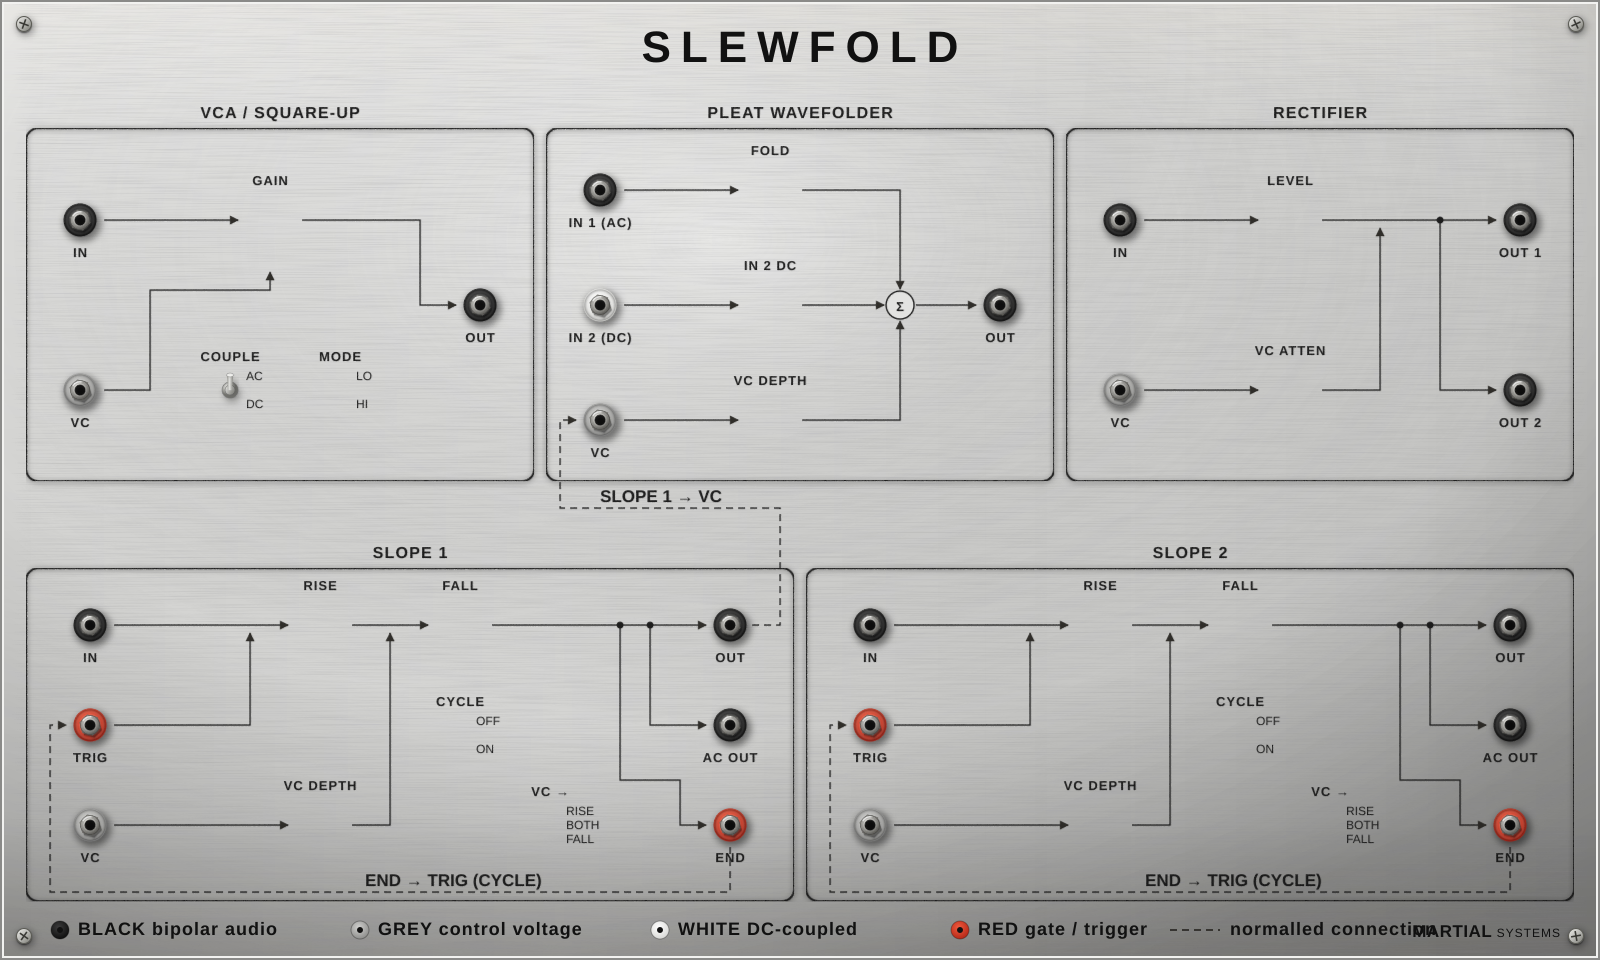
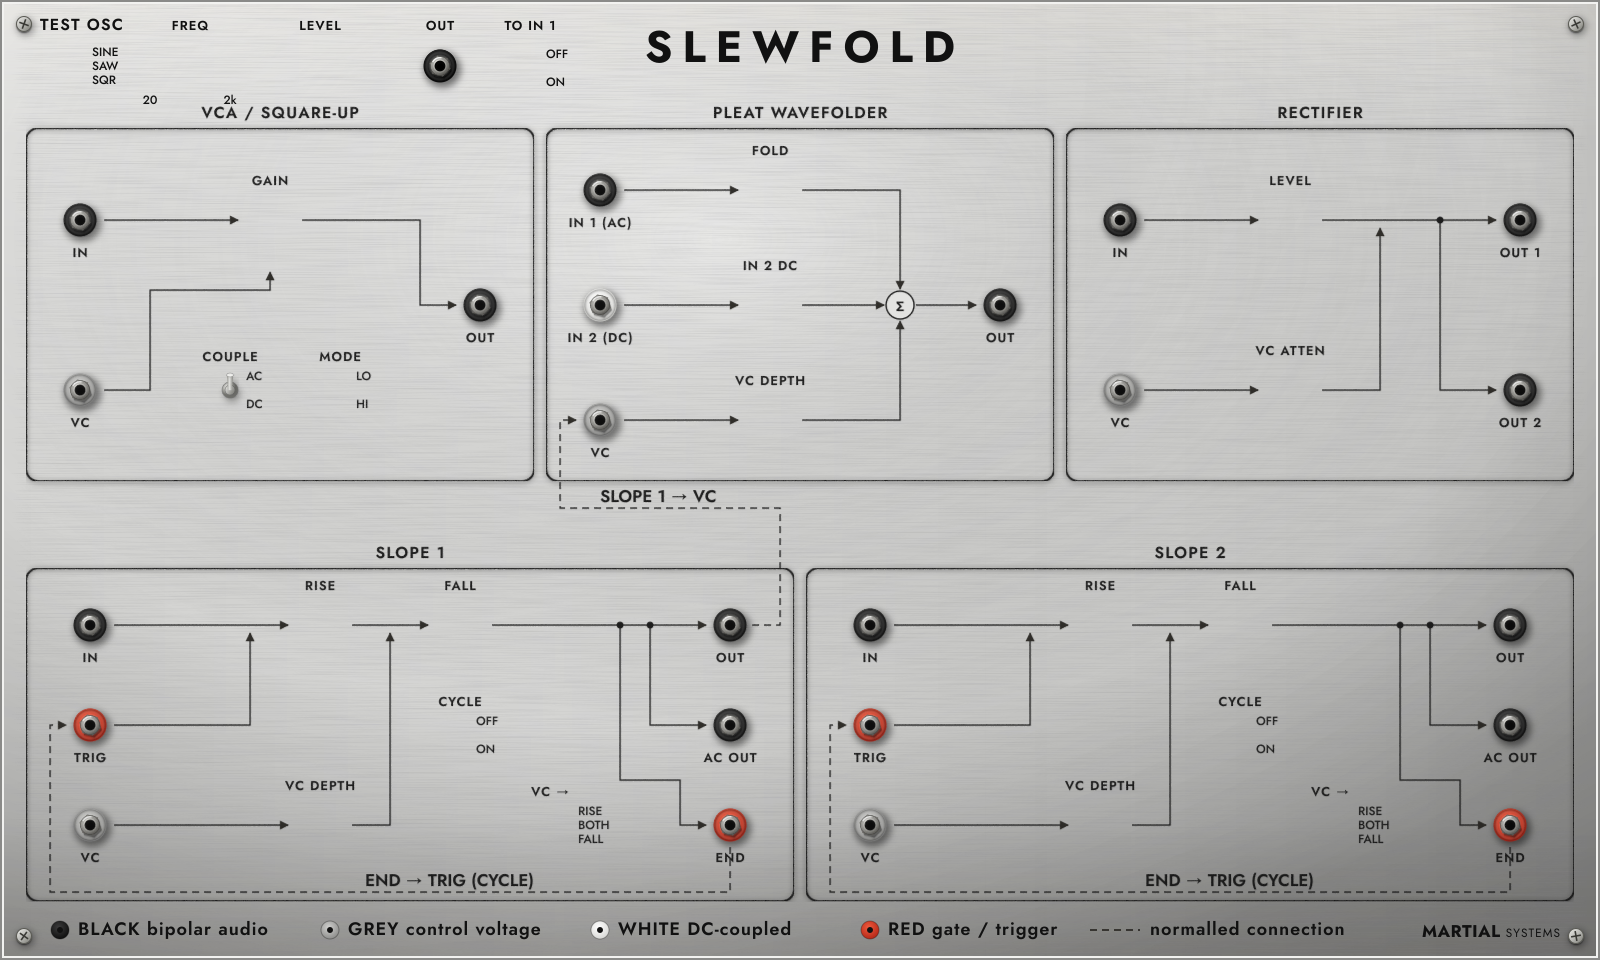
SLEWFOLD: test oscillator, starter patch, knob reset, plain-drag cable stacking, label fixes
- TEST OSC strip (SINE/SAW/SQR, FREQ 20 Hz-2 kHz, LEVEL dB, OUT jack, TO IN 1 toggle).
  OSC OUT is output 10; with TO IN 1 on it is the PLEAT IN 1 normal.
- Starter patch: osc -> PLEAT IN 1, Slope 1 OUT -> PLEAT VC, Slope 1 cycling.
- Right-click or double-click a knob resets it to default.
- A plain drag from an output always starts a new stacked cable; hover hint.
- Legend no longer runs into the logo; route labels clear the lever.
- DSP test for the oscillator (level, frequency, bit-identical when off).

diff --git a/SergeMiddleCombined/dsp/tests/test_patch.cpp b/SergeMiddleCombined/dsp/tests/test_patch.cpp
@@ -644,6 +644,72 @@ void TestEndJack()
   std::printf("measure end-cable period %d cycle-switch period %d first-peaks %d %d\n",
               cablePeriod, cyclePeriod, cableFirst, cycleFirst);
 }
+
+void TestOsc()
+{
+  const double fs = 48000.0;
+  const int n = 48000;
+  std::FILE* scope = std::fopen("osc_scope.csv", "wb");
+  if (scope != nullptr)
+    std::fprintf(scope, "t_ms,wave,osc_out,pleat_out\n");
+  for (int wave = 0; wave < 3; ++wave)
+  {
+    patch::PatchChannel ch;
+    ch.Reset(fs);
+    patch::Routing routing;
+    patch::SectionControls extra;
+    extra.oscWave = wave;
+    extra.oscFreq = 110.0;
+    extra.oscVolts = patch::OscVoltsFromDb(-12.0);
+    extra.oscToIn1 = true;
+    double peak = 0.0;
+    double pleatPeak = 0.0;
+    int ups = 0;
+    double last = 0.0;
+    for (int i = 0; i < n; ++i)
+    {
+      ch.Step(0.0, 0.0, 2.0, 0.0, 0.0, 0.005, 0.005, false, false, routing, 0.0, 1, extra);
+      const double o = ch.OutputVolts(patch::OscOut);
+      const double y = ch.OutputVolts(patch::PleatOut);
+      if (i > 4800)
+      {
+        peak = std::fmax(peak, std::fabs(o));
+        pleatPeak = std::fmax(pleatPeak, std::fabs(y));
+      }
+      if (last < 0.0 && o >= 0.0)
+        ++ups;
+      last = o;
+      if (scope != nullptr && i < 960)
+        std::fprintf(scope, "%.5f,%d,%.6f,%.6f\n", 1000.0 * i / fs, wave, o, y);
+    }
+    Check(peak > 1.1 && peak < 1.45, "osc -12 dB peak is about 1.26 V");
+    Check(ups >= 108 && ups <= 112, "osc runs at 110 Hz");
+    Check(pleatPeak > 0.3, "osc normalled into IN 1 sounds at PLEAT OUT");
+    std::printf("measure osc wave %d peak %.3f V cycles %d pleat peak %.3f V\n", wave, peak, ups, pleatPeak);
+  }
+  if (scope != nullptr)
+    std::fclose(scope);
+
+  // With TO IN 1 off, the osc running changes nothing at PLEAT OUT.
+  patch::PatchChannel a;
+  patch::PatchChannel b;
+  a.Reset(fs);
+  b.Reset(fs);
+  patch::Routing routing;
+  patch::SectionControls on;
+  on.oscVolts = 5.0;
+  on.oscWave = 1;
+  bool same = true;
+  for (int i = 0; i < 4800; ++i)
+  {
+    const double host = 0.5 * std::sin(2.0 * 3.14159265358979 * 220.0 * i / fs);
+    const double ya = a.Step(host, 0.0, 2.0, 0.0, 0.0, 0.005, 0.005, false, false, routing, 0.0, 1, {});
+    const double yb = b.Step(host, 0.0, 2.0, 0.0, 0.0, 0.005, 0.005, false, false, routing, 0.0, 1, on);
+    if (ya != yb)
+      same = false;
+  }
+  Check(same, "osc with TO IN 1 off is bit-identical at PLEAT OUT");
+}
 } // namespace
 
 int main()
@@ -657,6 +723,7 @@ int main()
   TestMeters();
   TestGateNotes();
   TestEndJack();
+  TestOsc();
   if (gFailures != 0)
   {
     std::printf("%d failed\n", gFailures);
